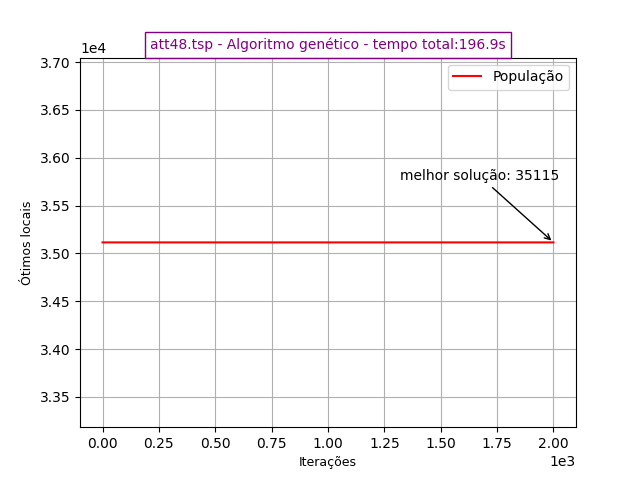
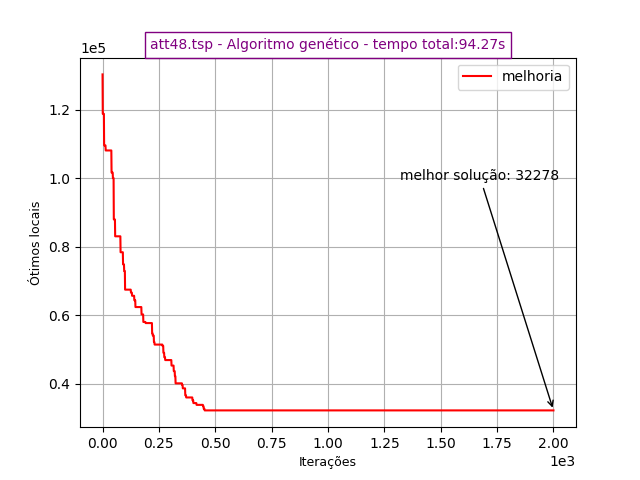
cx corrigido, incluso possibilidade de gerar população inicial de forma aleatória

diff --git a/PCV/genetico/genetic.py b/PCV/genetico/genetic.py
@@ -4,11 +4,13 @@
 #                Módulo que contém o algoritmo genético para o PCV                        #                          
 #                                                                                         #      
 ###########################################################################################
-
-from math import dist, floor
+import random
+from math import dist, floor, ceil
 from copy import deepcopy
 from random import seed, randint
 from aux import plot_graf
+from iteration_utilities import duplicates
+import numpy as np
 import time
 import sys
 
@@ -16,6 +18,7 @@ import sys
 
 localLen = len
 localDist = dist
+localDeepcopy = deepcopy
 
 
 def fitness(graph, route):
@@ -154,7 +157,7 @@ def two_opt(graph, route, x):
                     best_distance = new_distance
                     counter += 1
 
-                if x == 1 and counter >= 1:  # critério de parada, first improvement
+                if x == 1 and counter >= 5:  # critério de parada, first improvement
                     should_break = True
                     improved = False
                     break
@@ -195,32 +198,32 @@ def cx(pais):
     filhos = [[0], [], []]
 
     for i in range(1, 3):
-        filhos[i] = deepcopy(pais[(i % 2) + 1])
+        filhos[i] = pais[(i % 2) + 1]
         index = 0
 
         while True:
             # print(f'i:{i} index:{index}\n')
             filhos[i][index] = pais[i][index]
             # print(f'filhos[{i}][{index}]:{filhos[i][index]}')
-            # print(f'\nvalue error: {list.index(pais[(i % 2) + 1], filhos[i][index])}\n')
-            try:
-                index = list.index(pais[(i % 2) + 1], filhos[i][index])
-            except ValueError:
-                set_of_citys = set(pais[(i % 2) + 1])
-                # print(f'set_of_citys:{set_of_citys}')
-                pais[(i % 2) + 1] = list(set_of_citys)
-                pais[(i % 2) + 1].append(filhos[i][index])
-                index = list.index(pais[(i % 2) + 1], filhos[i][index])
-                break
-            if index != 0:
+            # print(f'\npai[1]:{pais[1]}')
+            # print(f'\npai[2]:{pais[2]}')
+            # print(f'\nfilho[1]:{filhos[1]}')
+            # print(f'\nfilho[2]:{filhos[2]}')
+            # print(f'\nfilhos[{i}][{index}] = {filhos[i][index]}')
+            # print(f'\npai[{(i % 2) + 1}] = {pais[(i % 2) + 1]}')
+
+            index = pais[(i % 2) + 1].index(filhos[i][index], 0)
+
+            # print(f'repetidos:{list(duplicates(pais[(i % 2) + 1]))}')
+
+            if index != 0 or pais[1][0] == pais[2][0]:
                 break
     return filhos
 
 
 ###########################################################################################
 
-
-def selection(graph, population, k, s):  # seleção por torneio
+def selection_by_tournament(graph, population, k, s):  # seleção por torneio
     selections = []
     pais = []
     seed(s)
@@ -229,7 +232,8 @@ def selection(graph, population, k, s):  # seleção por torneio
 
     # Seleciona k individuos aleatoriamente
     for i in range(k):
-        selections.append(population[randint(1, localLen(population) - 1)])
+        # print(f'\nindividuo selecionado:{randint(1, localLen(population) - 1)}')
+        selections.append(deepcopy(population[randint(1, localLen(population) - 1)]))
 
     # Escolhe os dois mais adaptados (2 melhores fitness)
     minor = float('inf')
@@ -246,24 +250,43 @@ def selection(graph, population, k, s):  # seleção por torneio
             i2 = i
 
     pais.append(0)
-    pais.append(selections[i1])
-    pais.append(selections[i2])
+    pais.append(deepcopy(selections[i1]))
+    pais.append(deepcopy(selections[i2]))
 
     return pais
 
 
 ###########################################################################################
 
-def mutation(mut, population, pop):
-    mut = int(mut)
-    mut_tax = floor((mut / 100) * localLen(population[1]))
-    # print(f'mut:{mut} mut_tax:{mut_tax}')
+def selection_by_fit(graph, population, index):
+    pais = []
 
-    i = (randint(1, localLen(population[1]) - 1))
-    j = (randint(i, localLen(population[1]) - 1))
+    minor = float('inf')
+    for i in range(localLen(population) - 1):
+        if fitness(graph, population[i]) < minor and i != index:
+            minor = fitness(graph, population[i])
+            i2 = i
+
+    pais.append(0)
+    pais.append(population[index])
+    pais.append(population[i2])
+    return pais
+
+
+###########################################################################################
+
+def mutation(mut, population):
+    mut_tax = ceil((mut / 100) * localLen(population[1]))
+    print(f'mut:{mut} mut_tax:{mut_tax} localLen(population):{localLen(population)}')
+
+    i = (randint(1, localLen(population[1])))
+    j = (randint(i, localLen(population[1])))
+
+    if localLen(population) < mut_tax:
+        mut_tax = localLen(population)
 
     for i in range(mut_tax):
-        index = (randint(0, pop - 2))
+        index = (randint(1, localLen(population) - 1))
         aux = population[index][j]
         population[index][j] = population[index][i]
         population[index][i] = aux
@@ -276,8 +299,8 @@ def mutation(mut, population, pop):
 def steady_stated(graph, population, filhos):
     worst, worst_index = search_worst_fit(population, graph)
 
-    menor = filhos[1]
-    for i in range(2, localLen(filhos)):
+    menor = filhos[0]
+    for i in range(1, localLen(filhos)):
         if fitness(graph, filhos[i]) < fitness(graph, menor):
             menor = filhos[i]
 
@@ -294,61 +317,74 @@ def genetic(graph, pop, mut, max_i, max_t, s):
     busca = []
     plt_opts = []
     plt_counters = []
-
+    li = []
     k = 4
     it = 0
 
     if pop > localLen(graph) - 1:
         pop = localLen(graph)
 
+    print(f'localLen(graph):{localLen(graph)}')
+
     # gerar população inicial
     print(f'Gerando população inicial...\n')
     for i in range(1, pop):
         population.append(nearestneighbour(deepcopy(graph), i))
+        # li = range(1, localLen(graph))
+        # population.append(random.sample(li, localLen(li)))
 
-    # for elemento in population:
-    #   print(f'elemento:{elemento}')
+    for elemento in population:
+        print(f'elemento:{elemento} - tamanho:{localLen(elemento)}')
 
     start_time = time.time()
     exe_time = 0
     while (exe_time <= max_t) and (it <= max_i):
 
         ### Avaliação ###
-        best_solution = fitness(graph, population[0])
-        for i in range(1, localLen(population)):
+        best_solution = float('inf')
+        for i in range(localLen(population) - 1):
             if fitness(graph, population[i]) < best_solution:
                 best_solution = fitness(graph, population[i])
+
         plt_opts.append(best_solution)
+        plt_counters.append(it)
 
         #### Seleção ###
         print(f'\nSeleção:[{it}]')
-        pais = selection(graph, population, k, s)
+        pais = selection_by_tournament(graph, localDeepcopy(population), k, s)
+        # for i in range(1,localLen(pais)):
+        #     print(f'pais[{i}]:{pais[i]} - custo(pais[{i}]):{fitness(graph,pais[i])}\n')
+        # pais = selection_by_fit(graph, population.copy(), index)
 
         ### Cruzamento ###
         print(f'\nCruzamento:[{it}]')
         filhos = cx(pais)
+        # for i in range(1,localLen(filhos)):
+        #     print(f'filhos[{i}]:{filhos[i]} - custo(filhos[{i}]):{fitness(graph, filhos[i])}\n')
 
         ### Mutação ###
         print(f'\nMutação:[{it}]')
-        population = mutation(mut, population, pop)
+        filhos = mutation(mut, filhos.copy())
+        # for i in range(1,localLen(filhos)):
+        #     print(f'filhos[{i}]:{filhos[i]} - custo(filhos[{i}]):{fitness(graph, filhos[i])}\n')
 
         ### Busca Local ###
         print(f'\nBusca Local:[{it}]')
+        busca = []
         for i in range(1, localLen(filhos)):
-            busca.append(two_opt(graph, filhos[i], 1))
+            busca.append(deepcopy(two_opt(graph, filhos[i].copy(), 1)))
+        # for i in range(1,localLen(busca)):
+        #     print(f'busca[{i}]:{busca[i]} - custo(busca[{i}]):{fitness(graph, busca[i])}\n')
 
         ### atualização ###
         print(f'\nAtualização da população:[{it}]')
-        population = steady_stated(graph, population, busca)
+        population = steady_stated(graph, deepcopy(population), deepcopy(busca))
+        # for i in range(1,localLen(population)):
+        #     print(f'population[{i}]:{population[i]} - custo(filhos[{i}]):{fitness(graph, population[i])}\n')
 
         it += 1
-        exe_time = time.time() - start_time
 
-    # for i in range(localLen(busca)-1):
-    #     print(f'local s* in busca = {fitness(graph,busca[i])}')
-    #
-    # for i in range(localLen(population)-1):
-    #     print(f'local s* in population = {fitness(graph,population[i])}')
+        exe_time = time.time() - start_time
 
     print(f'\nMelhor solução:{best_solution}\n')
     file_name = sys.argv[len(sys.argv) - 1]

diff --git a/PCV/genetico/aux.py b/PCV/genetico/aux.py
@@ -42,7 +42,7 @@ def plot_graf(opt_values, counter_values, file_name, exe_time, cost):
     plt.grid(True)
     plt.xlabel("Iterações", fontsize=9)
     plt.ylabel("Ótimos locais", fontsize=9)
-    plt.plot(counter_values, opt_values, label='População', color='red')
+    plt.plot(counter_values, opt_values, label='melhoria',  color='red')
     # plt.scatter(counter_values, opt_values, marker="+", color='red')
     plt.legend(loc='best')
     plt.savefig(

diff --git a/PCV/genetico/main.py b/PCV/genetico/main.py
@@ -16,4 +16,6 @@ if __name__ == '__main__':
     ### Input ###
     args, graph = fileinput()
 
-    genetic(graph[:], args.population, args.mutation, int(args.max_iteration), int(args.max_time) * 60, args.seed)
+    genetic(graph[:], int(args.population), int(args.mutation), int(args.max_iteration), int(args.max_time) * 60, int(args.seed))
+
+
